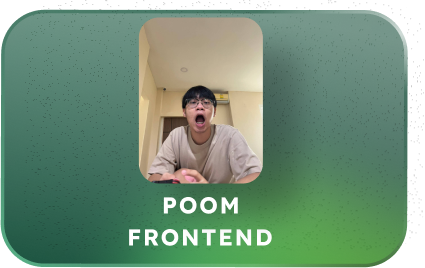
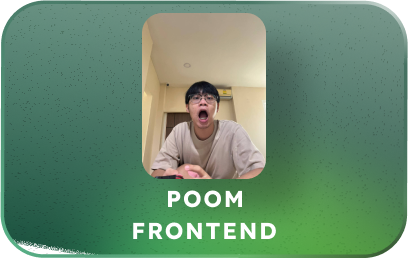
Add Animation

Changed region(s): [[0.0, 0.0, 1.0, 1.0], [0.2941, 0.834, 0.6765, 0.9266], [0.0, 0.8649, 0.0294, 0.9266]]

diff --git a/src/Components/Content.css b/src/Components/Content.css
@@ -74,7 +74,7 @@ html{
     position: absolute;
     top: -5rem;
     z-index: 40;
-    
+    animation: yourAnim3 0.7s linear 0.7s infinite alternate none;
 }
 
 .font-head{
@@ -90,6 +90,7 @@ html{
     position: absolute;
     top: 29rem;
     left: 70rem;
+    animation: yourAnim3 0.7s linear 0.7s infinite alternate none;
 }
 
 .info1{
@@ -101,21 +102,40 @@ html{
     left: 15rem;
 }
 
+@keyframes AnimationCloud{
+    0% {
+        transform:  scale(1.03);
+    }
+    100% {
+    }
+}
+
+@keyframes yourAnim3{
+    0% {
+        transform:  scale(1.02);
+    }
+    100% {
+    }
+}
+
 .cloud1{
-    width: 300px;
-    height: 150px;
-    position: relative;
+    width: 588px;
+    height: 258px;
+    position: absolute;
     z-index: 60;
-    top: 28rem;
-    left: 8rem;
+    top: 37rem;
+    left: -6rem;
+    animation: AnimationCloud 0.7s linear 0.7s infinite alternate none;
 }
 
 .cloud2{
-    width: 300px;
-    height: 150px;
-    position: relative;
-    top: 22rem;
+    width: 450px;
+    height: 190px;
+    position: absolute;
+    top: 44rem;
     left: 20rem;
+    z-index: 50;
+    animation:  AnimationCloud 0.7s linear 0.7s infinite alternate none;
 }
 
 .info2{
@@ -129,6 +149,7 @@ html{
     position: relative;
     bottom: 8rem;
     left: 70rem;
+    animation:  AnimationCloud 0.7s linear 0.7s infinite alternate none;
 }
 
 .sanc{
@@ -161,6 +182,7 @@ html{
     position: relative;
     bottom: 81rem;
     left:14rem;
+    animation:  AnimationCloud 0.7s linear 0.7s infinite alternate none;
 }
 
 .medusa2{
@@ -181,53 +203,35 @@ html{
     left: 2rem;
 }
 
+.boxbox div:hover{
+    transform: scale(1.02);
+    box-shadow: 0 0 15px 10px #8ac547;
+    border-radius: 38px;
+}
+
+
 .boxbox{
     display: flex;
     flex-wrap: wrap;
     justify-content:space-around;
     width: fit-content;
-    padding-top: 3em;
-    gap: 20px;
-    
+    padding-top: 4em;
+    gap: 3rem;
 }
-.poom-1{
+
+.poom-1,.dear-2,.earn-3,.book-3,.phing-4,.mook-5{
     flex-basis: 33.33%;
     width: 25em;
     height: 15em;
 }
-.dear-2{
-    flex-basis: 33.33%;
-    width: 25em;
-    height: 15em;
-}
-.earn-3{
-    flex-basis: 33.33%;
-    width: 25em;
-    height: 15em;
-}
-.book-4{
-    flex-basis: 33.33%;
-    width: 25em;
-    height: 15em;
-}
-.phing-5{
-    flex-basis: 33.33%;
-    width: 25em;
-    height: 15em;
-}
-.mook-6{
-    flex-basis: 33.33%;
-    width: 25em;
-    height: 15em;
-}
+
+
 .textme {
     font-size: 4em;
    text-align: center;
    padding-top: 40px;
    color: white;
 }
-/* animation start */
 
 
-/* animation end */
 
